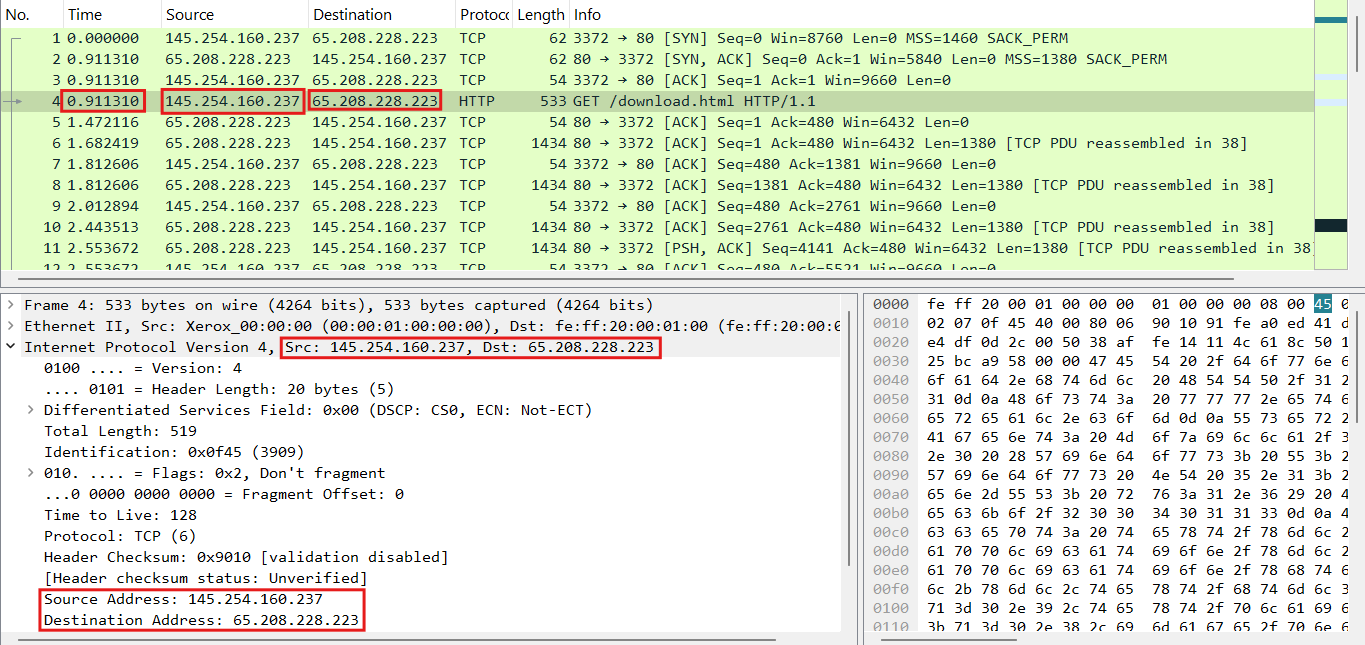
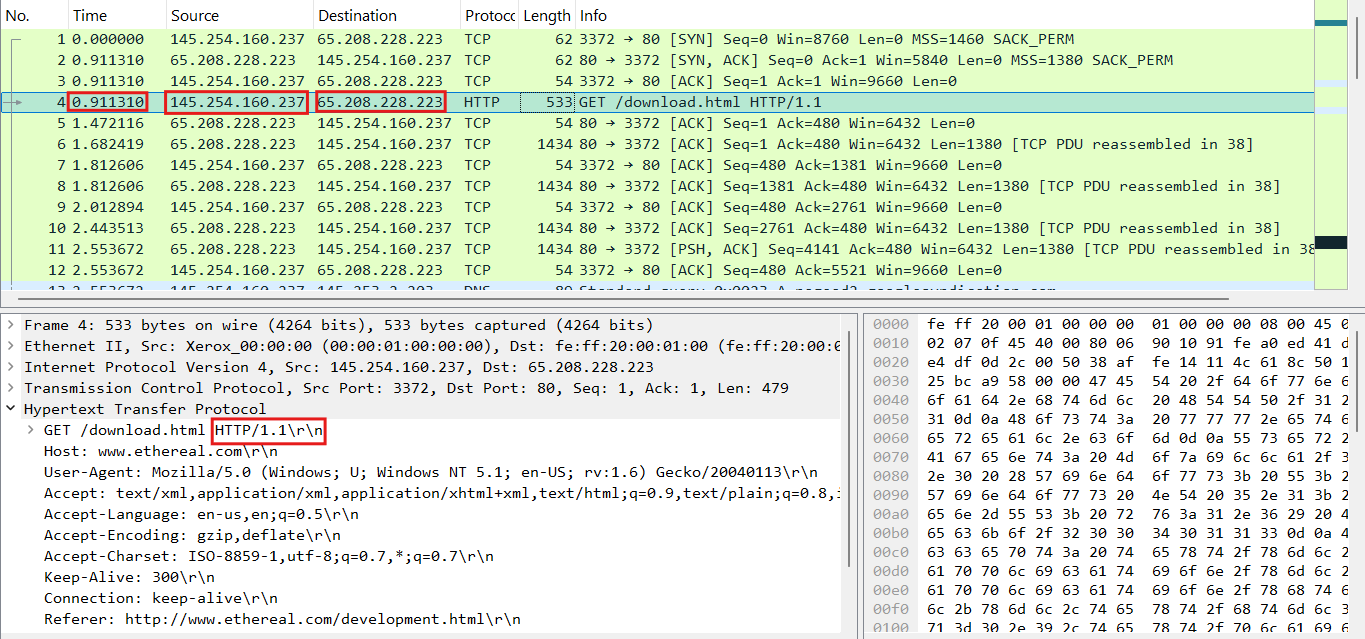
Completed - Week 1

Changed region(s): [[0.0, 0.0, 1.0, 1.0], [0.9538, 0.0, 0.9846, 0.0595], [0.5231, 0.5947, 0.5846, 0.6244]]

diff --git a/week-1/README.md b/week-1/README.md
@@ -14,10 +14,12 @@
   <hr><hr>
 </div>
 
-<!-- # Tugas review Deskripsi : 
+# Tugas review Deskripsi : 
 ## 1.	Analisa file http.cap dengan wireshark : Versi HTTP yang digunakan, IP address dari client maupun server, waktu dari client mengirimkan HTTP request., Waktu dari server mengirimkan server dan berapa durasinya 
 
 ![screenshot](assets/wireshark-1.png)
+
+•   Versi HTTP: 1.1
 
 •	Ip address client : 145.254.160.237
 
@@ -74,4 +76,4 @@ c.	Four-Way Handshake (Terminasi Koneksi)
 
 •	ACK: Klien merespons dengan ACK, dan koneksi ditutup sepenuhnya.
 
-Protokol TCP dirancang untuk menjamin keandalan komunikasi dengan mekanisme seperti error checking, retransmission, dan flow control untuk memastikan data sampai dengan benar dan berurutan. -->
+Protokol TCP dirancang untuk menjamin keandalan komunikasi dengan mekanisme seperti error checking, retransmission, dan flow control untuk memastikan data sampai dengan benar dan berurutan.
